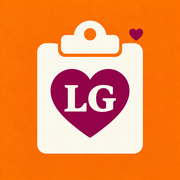
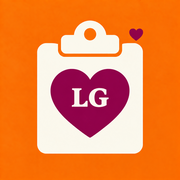
Ajuster la taille du monogramme LG

Changed region(s): [[0.3611, 0.4722, 0.6389, 0.6389]]

diff --git a/service-worker.js b/service-worker.js
@@ -1,1 +1,1 @@
-const CACHE='ma-todolist-v3';const ASSETS=['./','./index.html','./icon-180.png','./icon-192.png','./icon-512.png','./manifest.webmanifest'];self.addEventListener('install',e=>e.waitUntil(caches.open(CACHE).then(c=>c.addAll(ASSETS)).then(()=>self.skipWaiting())));self.addEventListener('activate',e=>e.waitUntil(caches.keys().then(keys=>Promise.all(keys.filter(k=>k!==CACHE).map(k=>caches.delete(k)))).then(()=>self.clients.claim())));self.addEventListener('fetch',e=>{if(e.request.method!=='GET')return;e.respondWith(fetch(e.request).then(r=>{const copy=r.clone();caches.open(CACHE).then(c=>c.put(e.request,copy));return r}).catch(()=>caches.match(e.request).then(r=>r||caches.match('./index.html'))))});
+const CACHE='ma-todolist-v4';const ASSETS=['./','./index.html','./icon-180.png','./icon-192.png','./icon-512.png','./manifest.webmanifest'];self.addEventListener('install',e=>e.waitUntil(caches.open(CACHE).then(c=>c.addAll(ASSETS)).then(()=>self.skipWaiting())));self.addEventListener('activate',e=>e.waitUntil(caches.keys().then(keys=>Promise.all(keys.filter(k=>k!==CACHE).map(k=>caches.delete(k)))).then(()=>self.clients.claim())));self.addEventListener('fetch',e=>{if(e.request.method!=='GET')return;e.respondWith(fetch(e.request).then(r=>{const copy=r.clone();caches.open(CACHE).then(c=>c.put(e.request,copy));return r}).catch(()=>caches.match(e.request).then(r=>r||caches.match('./index.html'))))});
